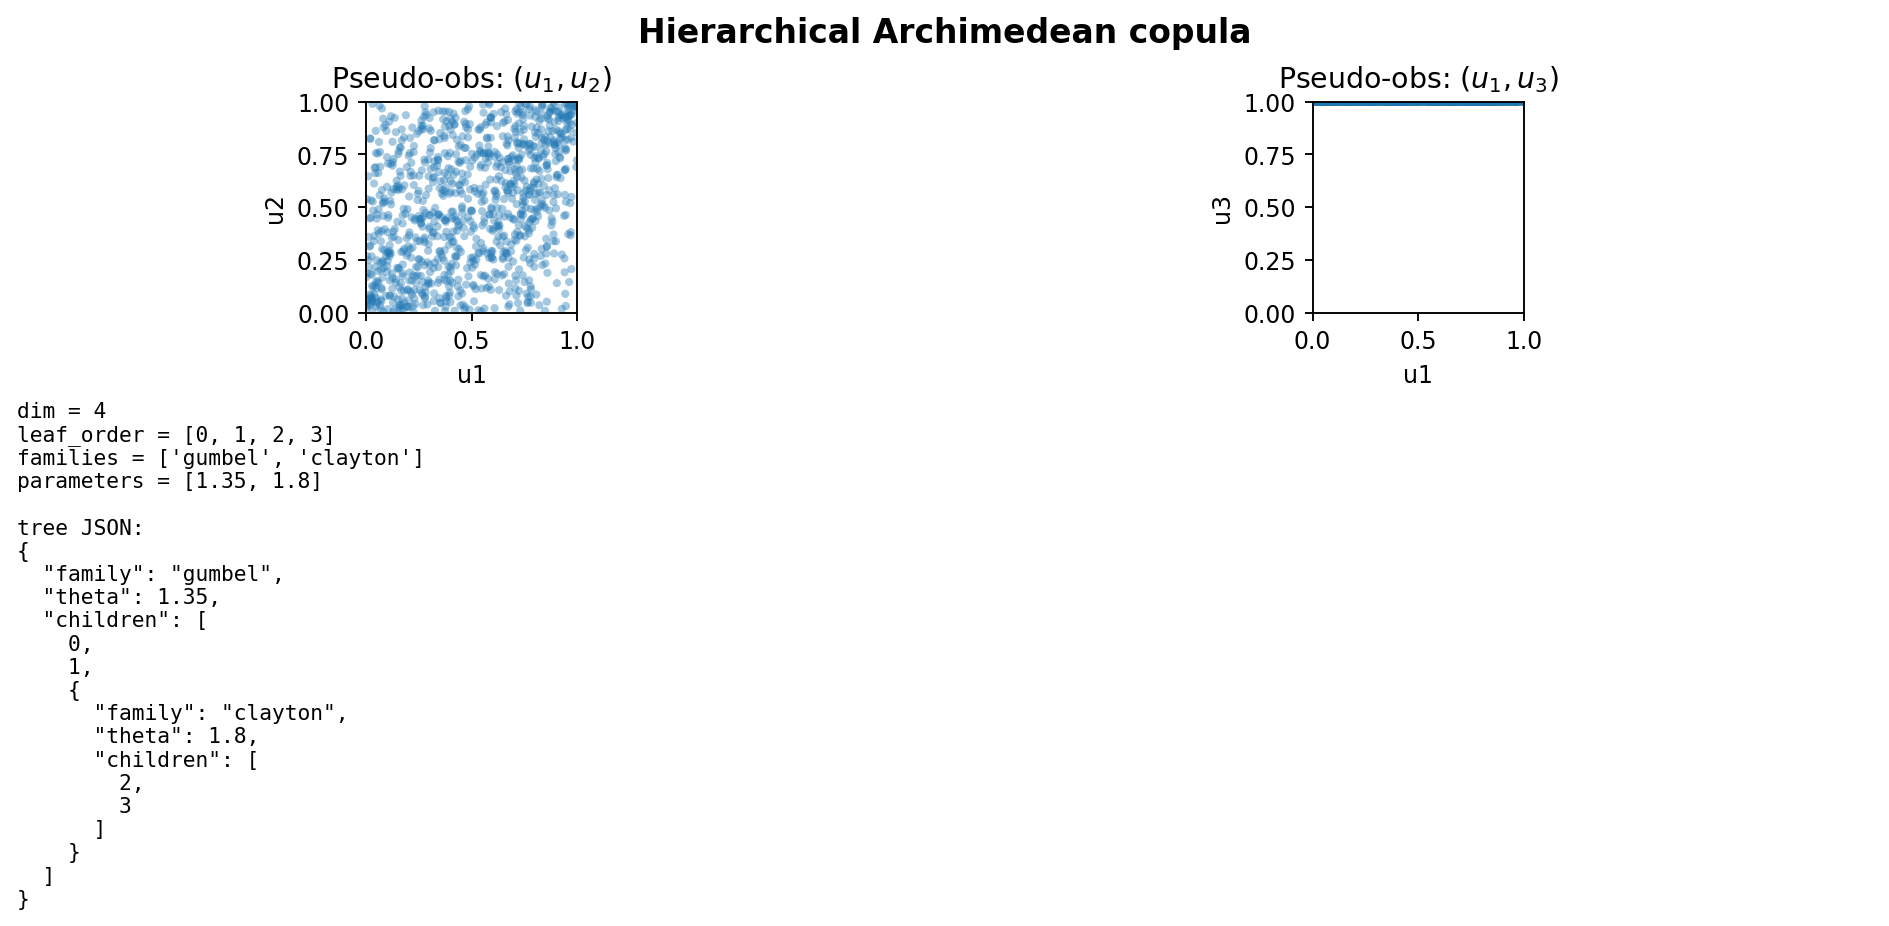
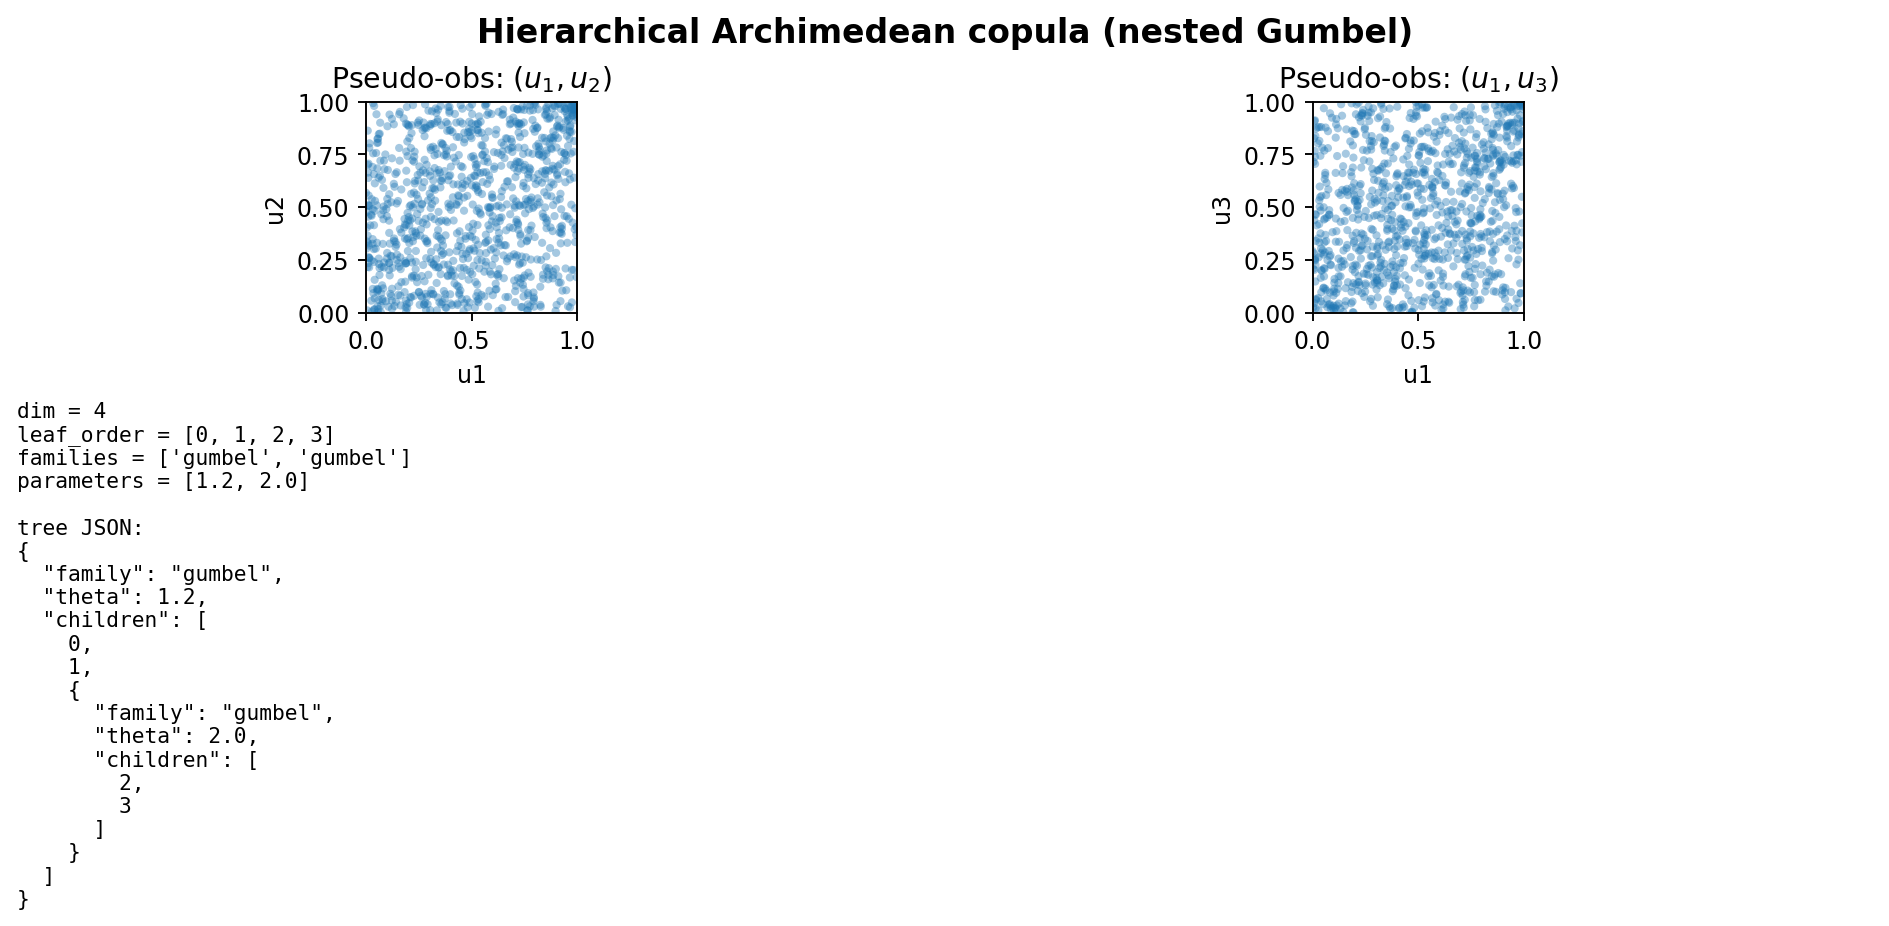
Update README and examples for Hierarchical Archimedean Copula
- Revise README to include nested Gumbel in the copula gallery description.
- Enhance `save_hac_example` function in `copula_gallery.py` to clarify the nesting structure and update parameters for better accuracy.
- Modify the title in the figure to reflect the nested Gumbel hierarchy.
- Update the output image for hierarchical Archimedean copula to align with the new example.

diff --git a/python/examples/copula_gallery.py b/python/examples/copula_gallery.py
@@ -87,13 +87,18 @@ def save_vine_example() -> Path:
 
 
 def save_hac_example() -> Path:
+    # Nested Archimedean (same-family Gumbel nesting). This matches the validated
+    # sampler path in rscopulas-core (see `nested_gumbel_sampling_recovers_*`).
+    # Cross-family nesting currently uses a Laplace/Stehfest child-frailty path
+    # that can mis-sample nested margins (values stuck near 1); avoid that here
+    # so the figure reflects a correct dependence structure.
     tree: dict = {
         "family": "gumbel",
-        "theta": 1.35,
+        "theta": 1.2,
         "children": [
             0,
             1,
-            {"family": "clayton", "theta": 1.8, "children": [2, 3]},
+            {"family": "gumbel", "theta": 2.0, "children": [2, 3]},
         ],
     }
     model = HierarchicalArchimedeanCopula.from_tree(tree)
@@ -101,7 +106,7 @@ def save_hac_example() -> Path:
 
     fig = plt.figure(figsize=(11.0, 5.2), constrained_layout=True)
     gs = fig.add_gridspec(2, 2, height_ratios=[1.0, 0.45])
-    fig.suptitle("Hierarchical Archimedean copula", fontsize=14, fontweight="semibold")
+    fig.suptitle("Hierarchical Archimedean copula (nested Gumbel)", fontsize=14, fontweight="semibold")
 
     ax01 = fig.add_subplot(gs[0, 0])
     plot_scatter(sample=sample, ax=ax01, alpha=0.4, s=12)

diff --git a/benchmarks/python_runner.py b/benchmarks/python_runner.py
@@ -51,6 +51,18 @@ def _family_model_class(family: str):
     }[family]
 
 
+def _fixture_dim(fixture: dict[str, Any]) -> int:
+    rows = fixture.get("inputs") or fixture.get("input_pobs")
+    if rows:
+        return int(np.asarray(rows, dtype=np.float64).shape[1])
+    correlation = fixture.get("correlation")
+    if correlation is not None:
+        return int(np.asarray(correlation, dtype=np.float64).shape[0])
+    if fixture.get("theta") is not None:
+        return 2
+    raise ValueError("fixture does not provide enough information to infer model dimension")
+
+
 def _single_family_model(case: dict[str, Any], fixture: dict[str, Any]):
     family = case["family"]
     if family == "gaussian":
@@ -60,7 +72,7 @@ def _single_family_model(case: dict[str, Any], fixture: dict[str, Any]):
             np.asarray(fixture["correlation"], dtype=np.float64),
             float(fixture["degrees_of_freedom"]),
         )
-    dim = len(np.asarray(fixture.get("inputs", fixture.get("input_pobs")), dtype=np.float64)[0])
+    dim = _fixture_dim(fixture)
     theta = float(fixture["theta"])
     if family == "clayton":
         return ClaytonCopula.from_params(dim, theta)

diff --git a/README.md b/README.md
@@ -280,8 +280,7 @@ PYTHONPATH=python python python/examples/copula_gallery.py
 - `python/examples/copula_visualisation.py` writes a single multi-panel overview
   (`python/examples/output/copula_visualisation.png`).
 - `python/examples/copula_gallery.py` writes one PNG per model kind (Gaussian,
-  Student t, Clayton, Frank, Gumbel, vine, hierarchical Archimedean, and
-  pair-copula kernel) under `python/examples/output/gallery_*.png`.
+  Student t, Clayton, Frank, Gumbel, vine, nested Gumbel hierarchical Archimedean, and pair-copula kernel) under `python/examples/output/gallery_*.png`.
 
 ### Fit a Gaussian copula
 
